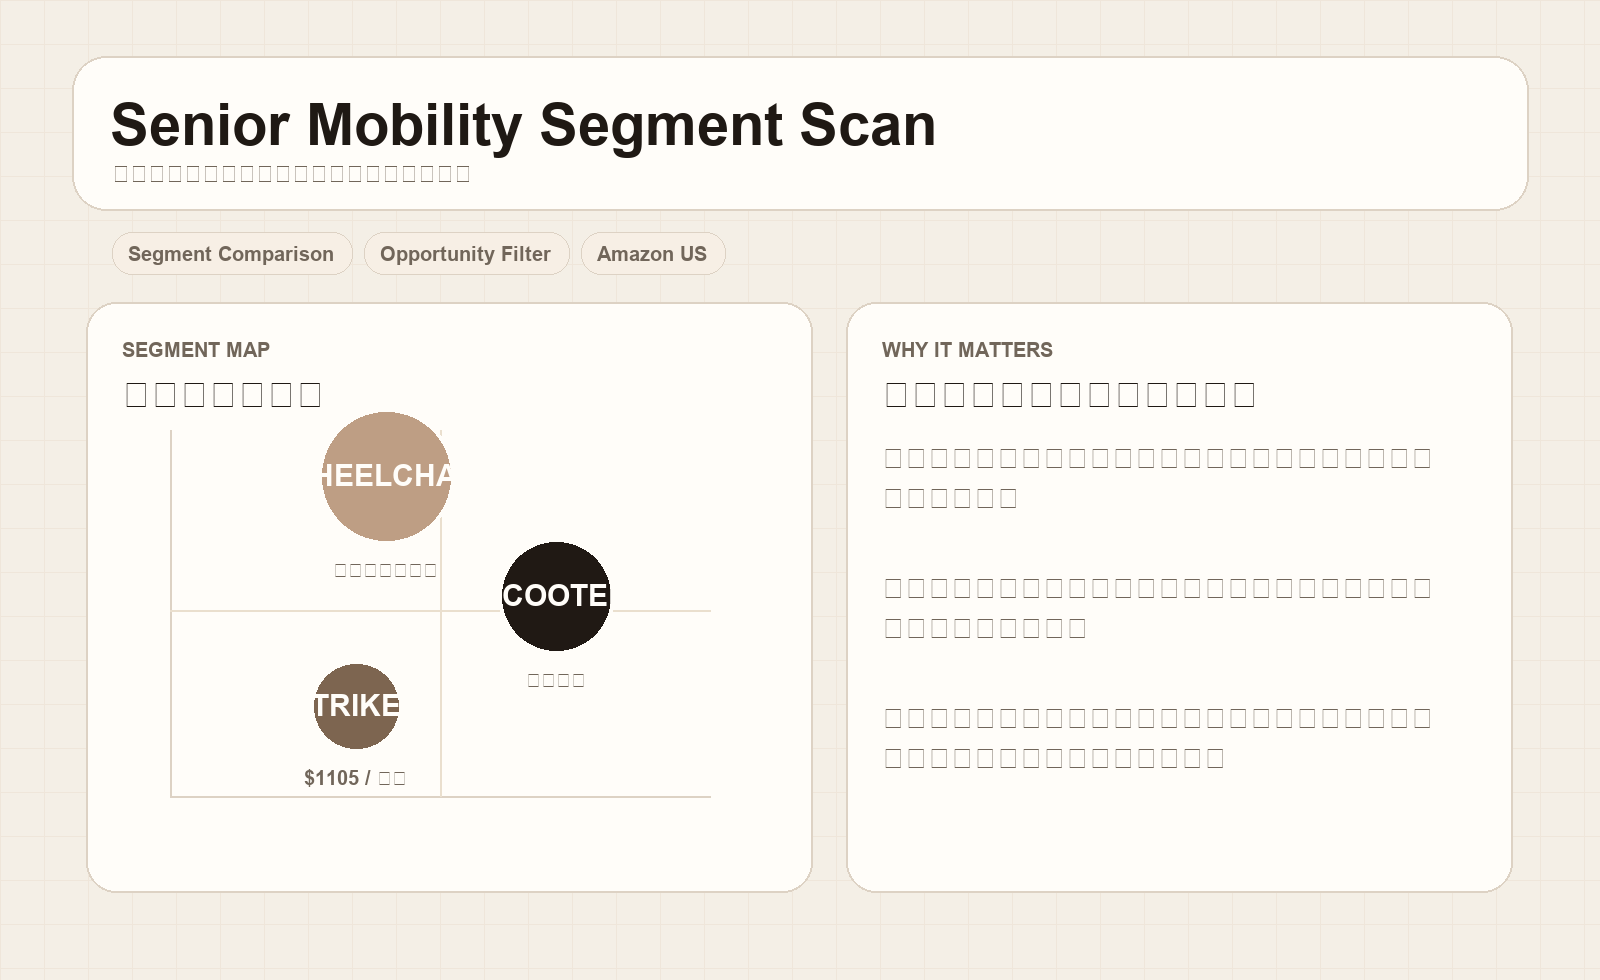
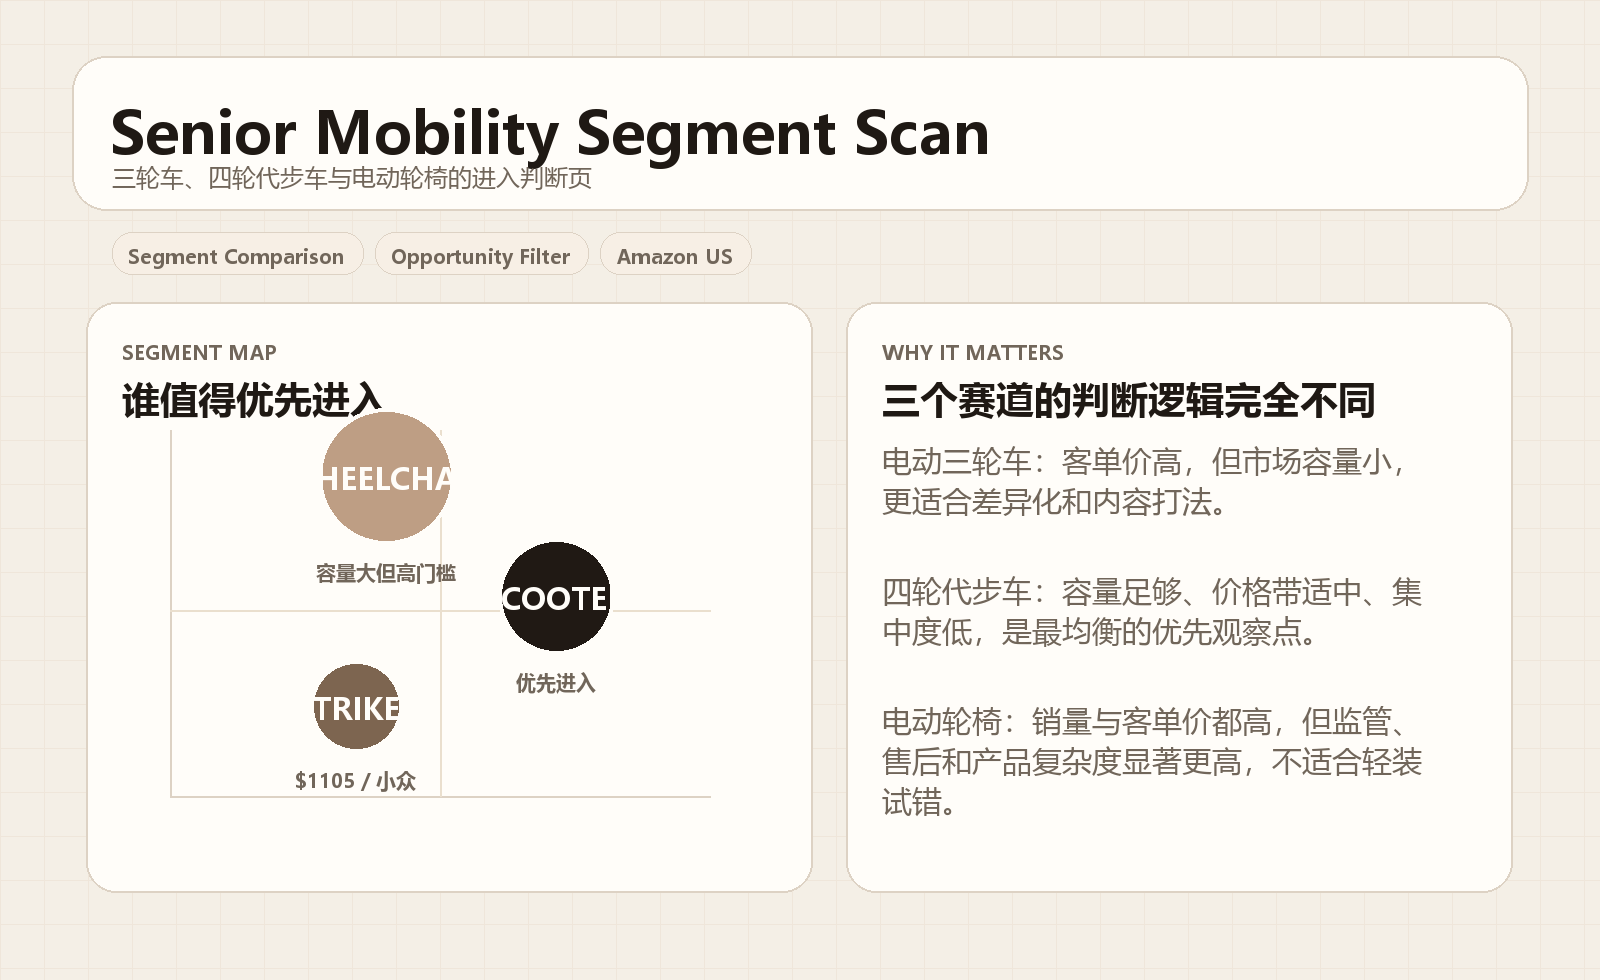
Fix report visual Chinese text rendering

diff --git a/scripts/generate_report_visuals.py b/scripts/generate_report_visuals.py
@@ -21,9 +21,11 @@ ACCENT_3 = "#c8aa8c"
 
 def font(size: int, bold: bool = False):
     candidates = [
-        "C:/Windows/Fonts/plusjakartasans-bold.ttf" if bold else "C:/Windows/Fonts/plusjakartasans.ttf",
-        "C:/Windows/Fonts/arialbd.ttf" if bold else "C:/Windows/Fonts/arial.ttf",
         "C:/Windows/Fonts/msyhbd.ttc" if bold else "C:/Windows/Fonts/msyh.ttc",
+        "C:/Windows/Fonts/SourceHanSansSC-Bold.otf" if bold else "C:/Windows/Fonts/SourceHanSansSC-Medium.otf",
+        "C:/Windows/Fonts/SourceHanSansSC-Bold.ttf" if bold else "C:/Windows/Fonts/SourceHanSansSC-Medium.ttf",
+        "C:/Windows/Fonts/simhei.ttf" if bold else "C:/Windows/Fonts/simsun.ttc",
+        "C:/Windows/Fonts/arialbd.ttf" if bold else "C:/Windows/Fonts/arial.ttf",
     ]
     for path in candidates:
         try:
@@ -42,10 +44,10 @@ FONT_LABEL = font(20, True)
 
 
 def draw_wrapped(draw, text, xy, width, font_obj, fill, line_gap=10):
-    words = list(text)
+    chars = list(text)
     lines = []
     current = ""
-    for ch in words:
+    for ch in chars:
         test = current + ch
         if draw.textlength(test, font=font_obj) <= width:
             current = test
@@ -108,7 +110,8 @@ def bubble(draw, x, y, r, color, label, caption):
     draw.ellipse((x - r, y - r, x + r, y + r), fill=color, outline=PANEL, width=4)
     tw = draw.textlength(label, font=FONT_BODY_BOLD)
     draw.text((x - tw / 2, y - 18), label, font=FONT_BODY_BOLD, fill="#fffdf9")
-    draw.text((x - draw.textlength(caption, font=FONT_LABEL) / 2, y + r + 14), caption, font=FONT_LABEL, fill=MUTED)
+    cw = draw.textlength(caption, font=FONT_LABEL)
+    draw.text((x - cw / 2, y + r + 14), caption, font=FONT_LABEL, fill=MUTED)
 
 
 def create_voc():
@@ -149,8 +152,8 @@ def create_eu():
     draw.line((170, 430, 170, 796), fill=LINE, width=2)
     draw.line((170, 610, 710, 610), fill="#eadfce", width=2)
     draw.line((440, 430, 440, 796), fill="#eadfce", width=2)
-    bubble(draw, 594, 490, 78, ACCENT, "DE", "€57.3M / 高价高量")
-    bubble(draw, 510, 602, 58, ACCENT_2, "UK", "€36.4M / 次主站点")
+    bubble(draw, 594, 490, 78, ACCENT, "DE", "€7.3M / 高价高量")
+    bubble(draw, 510, 602, 58, ACCENT_2, "UK", "€6.4M / 次主站点")
     bubble(draw, 350, 668, 42, ACCENT_3, "FR", "延展市场")
     bubble(draw, 286, 726, 34, "#d3b89d", "ES", "后置进入")
     bubble(draw, 392, 758, 30, "#e2d2c3", "IT", "复制站点")
@@ -158,10 +161,10 @@ def create_eu():
 
     rounded(draw, (846, 302, 1512, 892))
     card_title(draw, 882, 338, "CATEGORY PRIORITY", "应该先看的德国核心品类")
-    bar(draw, 882, 430, "厨房龙头", "€16.1M", 1.0, ACCENT)
-    bar(draw, 882, 545, "手持花洒", "€10.8M", 0.67, ACCENT_2)
-    bar(draw, 882, 660, "淋浴系统", "€10.7M", 0.66, ACCENT_3)
-    bar(draw, 882, 775, "面盆龙头", "€9.3M", 0.58, "#d2baa3")
+    bar(draw, 882, 430, "厨房龙头", "€6.1M", 1.0, ACCENT)
+    bar(draw, 882, 545, "手持花洒", "€0.8M", 0.67, ACCENT_2)
+    bar(draw, 882, 660, "淋浴系统", "€0.7M", 0.66, ACCENT_3)
+    bar(draw, 882, 775, "面盆龙头", "€0.3M", 0.58, "#d2baa3")
     image.save(OUT_DIR / "eu-bathroom-report-board.png")
 
 
